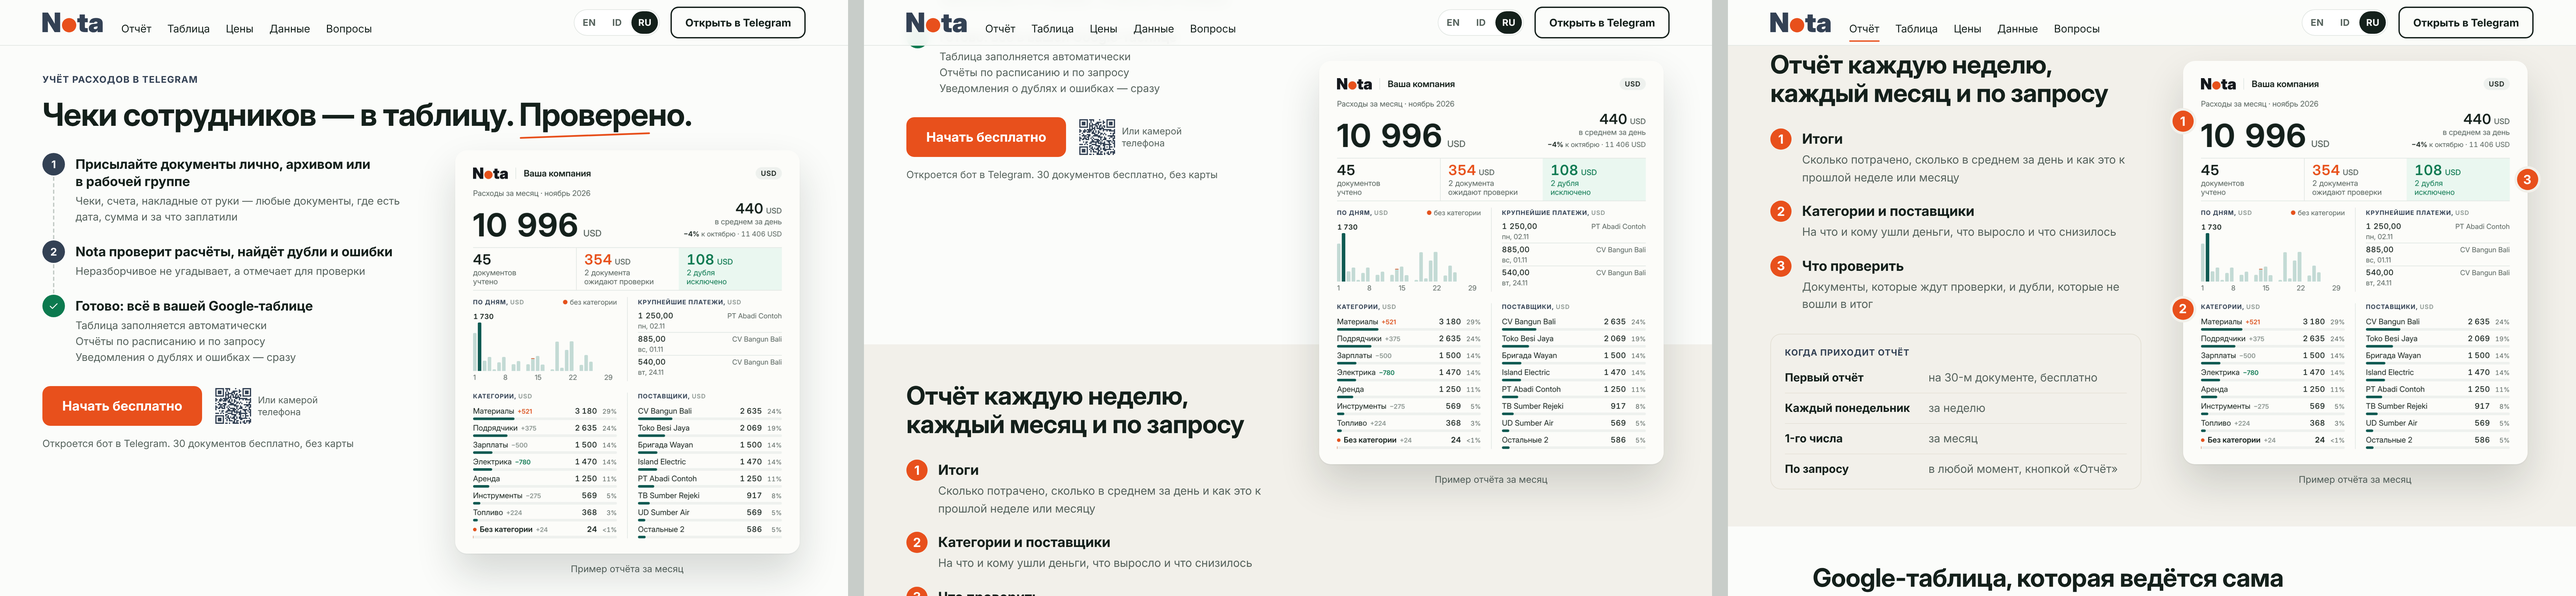
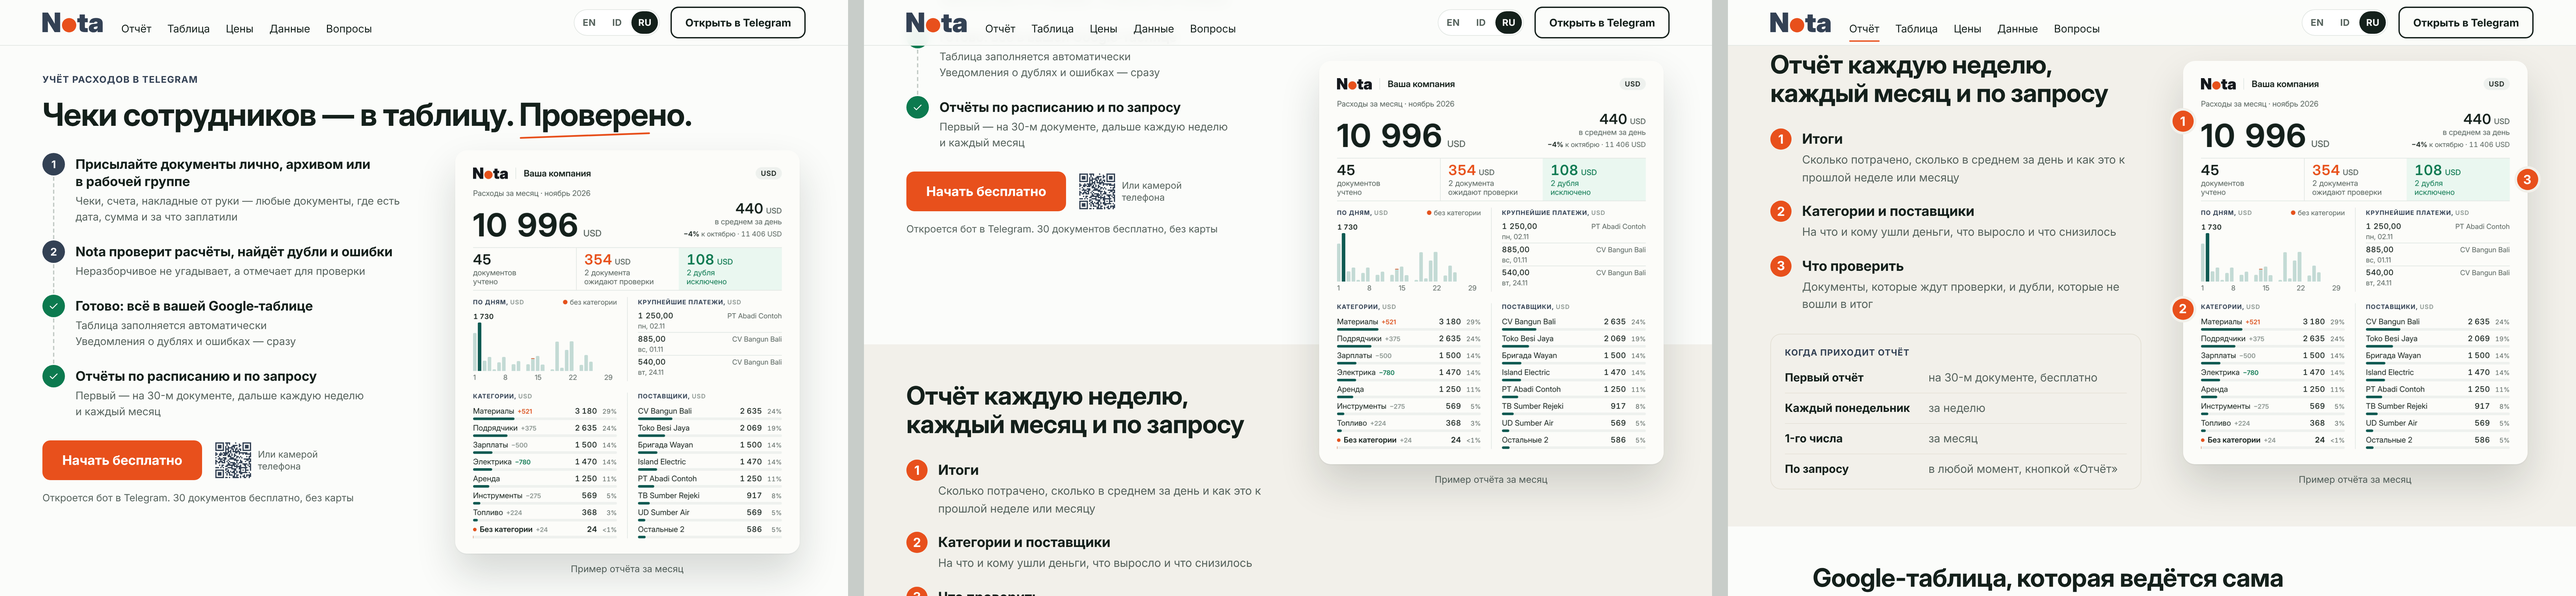
Landing v12 start: reports as a separate row after Готово
Claude-Session: https://claude.ai/code/session_01L3HhR7LSGwJtypFbeUeh92

Changed region(s): [[0.3438, 0.0933, 0.4688, 0.4044], [0.0, 0.56, 0.125, 0.84]]

diff --git a/nota/src/data/content-v12.ts b/nota/src/data/content-v12.ts
@@ -22,7 +22,10 @@ export const start = {
     { mark: '2', title: 'Nota проверит расчёты, найдёт дубли и\u00a0ошибки',
       lines: ['Неразборчивое не угадывает, а\u00a0отмечает для проверки'] },
     { mark: 'ok', title: 'Готово: всё в\u00a0вашей Google\u2011таблице',
-      lines: ['Таблица заполняется автоматически', 'Отчёты по расписанию и\u00a0по\u00a0запросу', 'Уведомления о\u00a0дублях и\u00a0ошибках\u00a0— сразу'] },
+      lines: ['Таблица заполняется автоматически', 'Уведомления о\u00a0дублях и\u00a0ошибках\u00a0— сразу'] },
+    // Основатель 22.11: отчёты — отдельным пунктом после «Готово»
+    { mark: 'ok', title: 'Отчёты по\u00a0расписанию и\u00a0по\u00a0запросу',
+      lines: ['Первый\u00a0— на\u00a030-м документе, дальше каждую неделю и\u00a0каждый месяц'] },
   ],
   ctaLine: 'Откроется бот в Telegram. 30 документов бесплатно, без карты',
   // Отчёт за месяц, тестовые данные (founder/landing-start-sketch/month-report.py): ноябрь по 25-е, доллары

diff --git a/founder/landing-v12-notes.md b/founder/landing-v12-notes.md
@@ -19,11 +19,12 @@
 
 - **Надзаголовок:** «Учёт расходов в Telegram».
 - **Заголовок:** «Чеки сотрудников — в таблицу. Проверено.», подчёркнуто «Проверено». Основатель 22.11 согласился, что «Учёт расходов в Telegram» — неудачный заголовок.
-- **Первый экран — путь из трёх строк** (основатель 22.11: было перегружено, но путь хороший — оставить и описать понятнее):
+- **Первый экран — путь из четырёх строк** (основатель 22.11: было перегружено, но путь хороший — оставить и описать понятнее):
   1. «Присылайте документы лично, архивом или в рабочей группе» — «Чеки, счета, накладные от руки — любые документы, где есть дата, сумма и за что заплатили».
   2. «Nota проверит расчёты, найдёт дубли и ошибки» — «Неразборчивое не угадывает, а отмечает для проверки».
-  3. «Готово: всё в вашей Google-таблице» — таблица заполняется автоматически, отчёты по расписанию и по запросу, уведомления о дублях и ошибках сразу.
-  - Все три строки одного вида: кружок, жирная строка, серые подписи, одна пунктирная линия. Убраны метки способов, реакция ✍ и зелёная заливка «Готово».
+  3. «Готово: всё в вашей Google-таблице» — таблица заполняется автоматически, уведомления о дублях и ошибках сразу.
+  4. «Отчёты по расписанию и по запросу» — «Первый — на 30-м документе, дальше каждую неделю и каждый месяц» (отдельным пунктом, основатель 22.11).
+  - Все строки одного вида: кружок, жирная строка, серые подписи, одна пунктирная линия. Убраны метки способов, реакция ✍ и зелёная заливка «Готово».
   - Тексты взяты из варианта, который лучше всех прошёл панель (5 из 20). Промежуточная версия без пути (подзаголовок и три пункта) не проверялась на панели и отменена.
   - Под кнопкой: «Откроется бот в Telegram. 30 документов бесплатно, без карты».
 - **Блок отчёта:**
